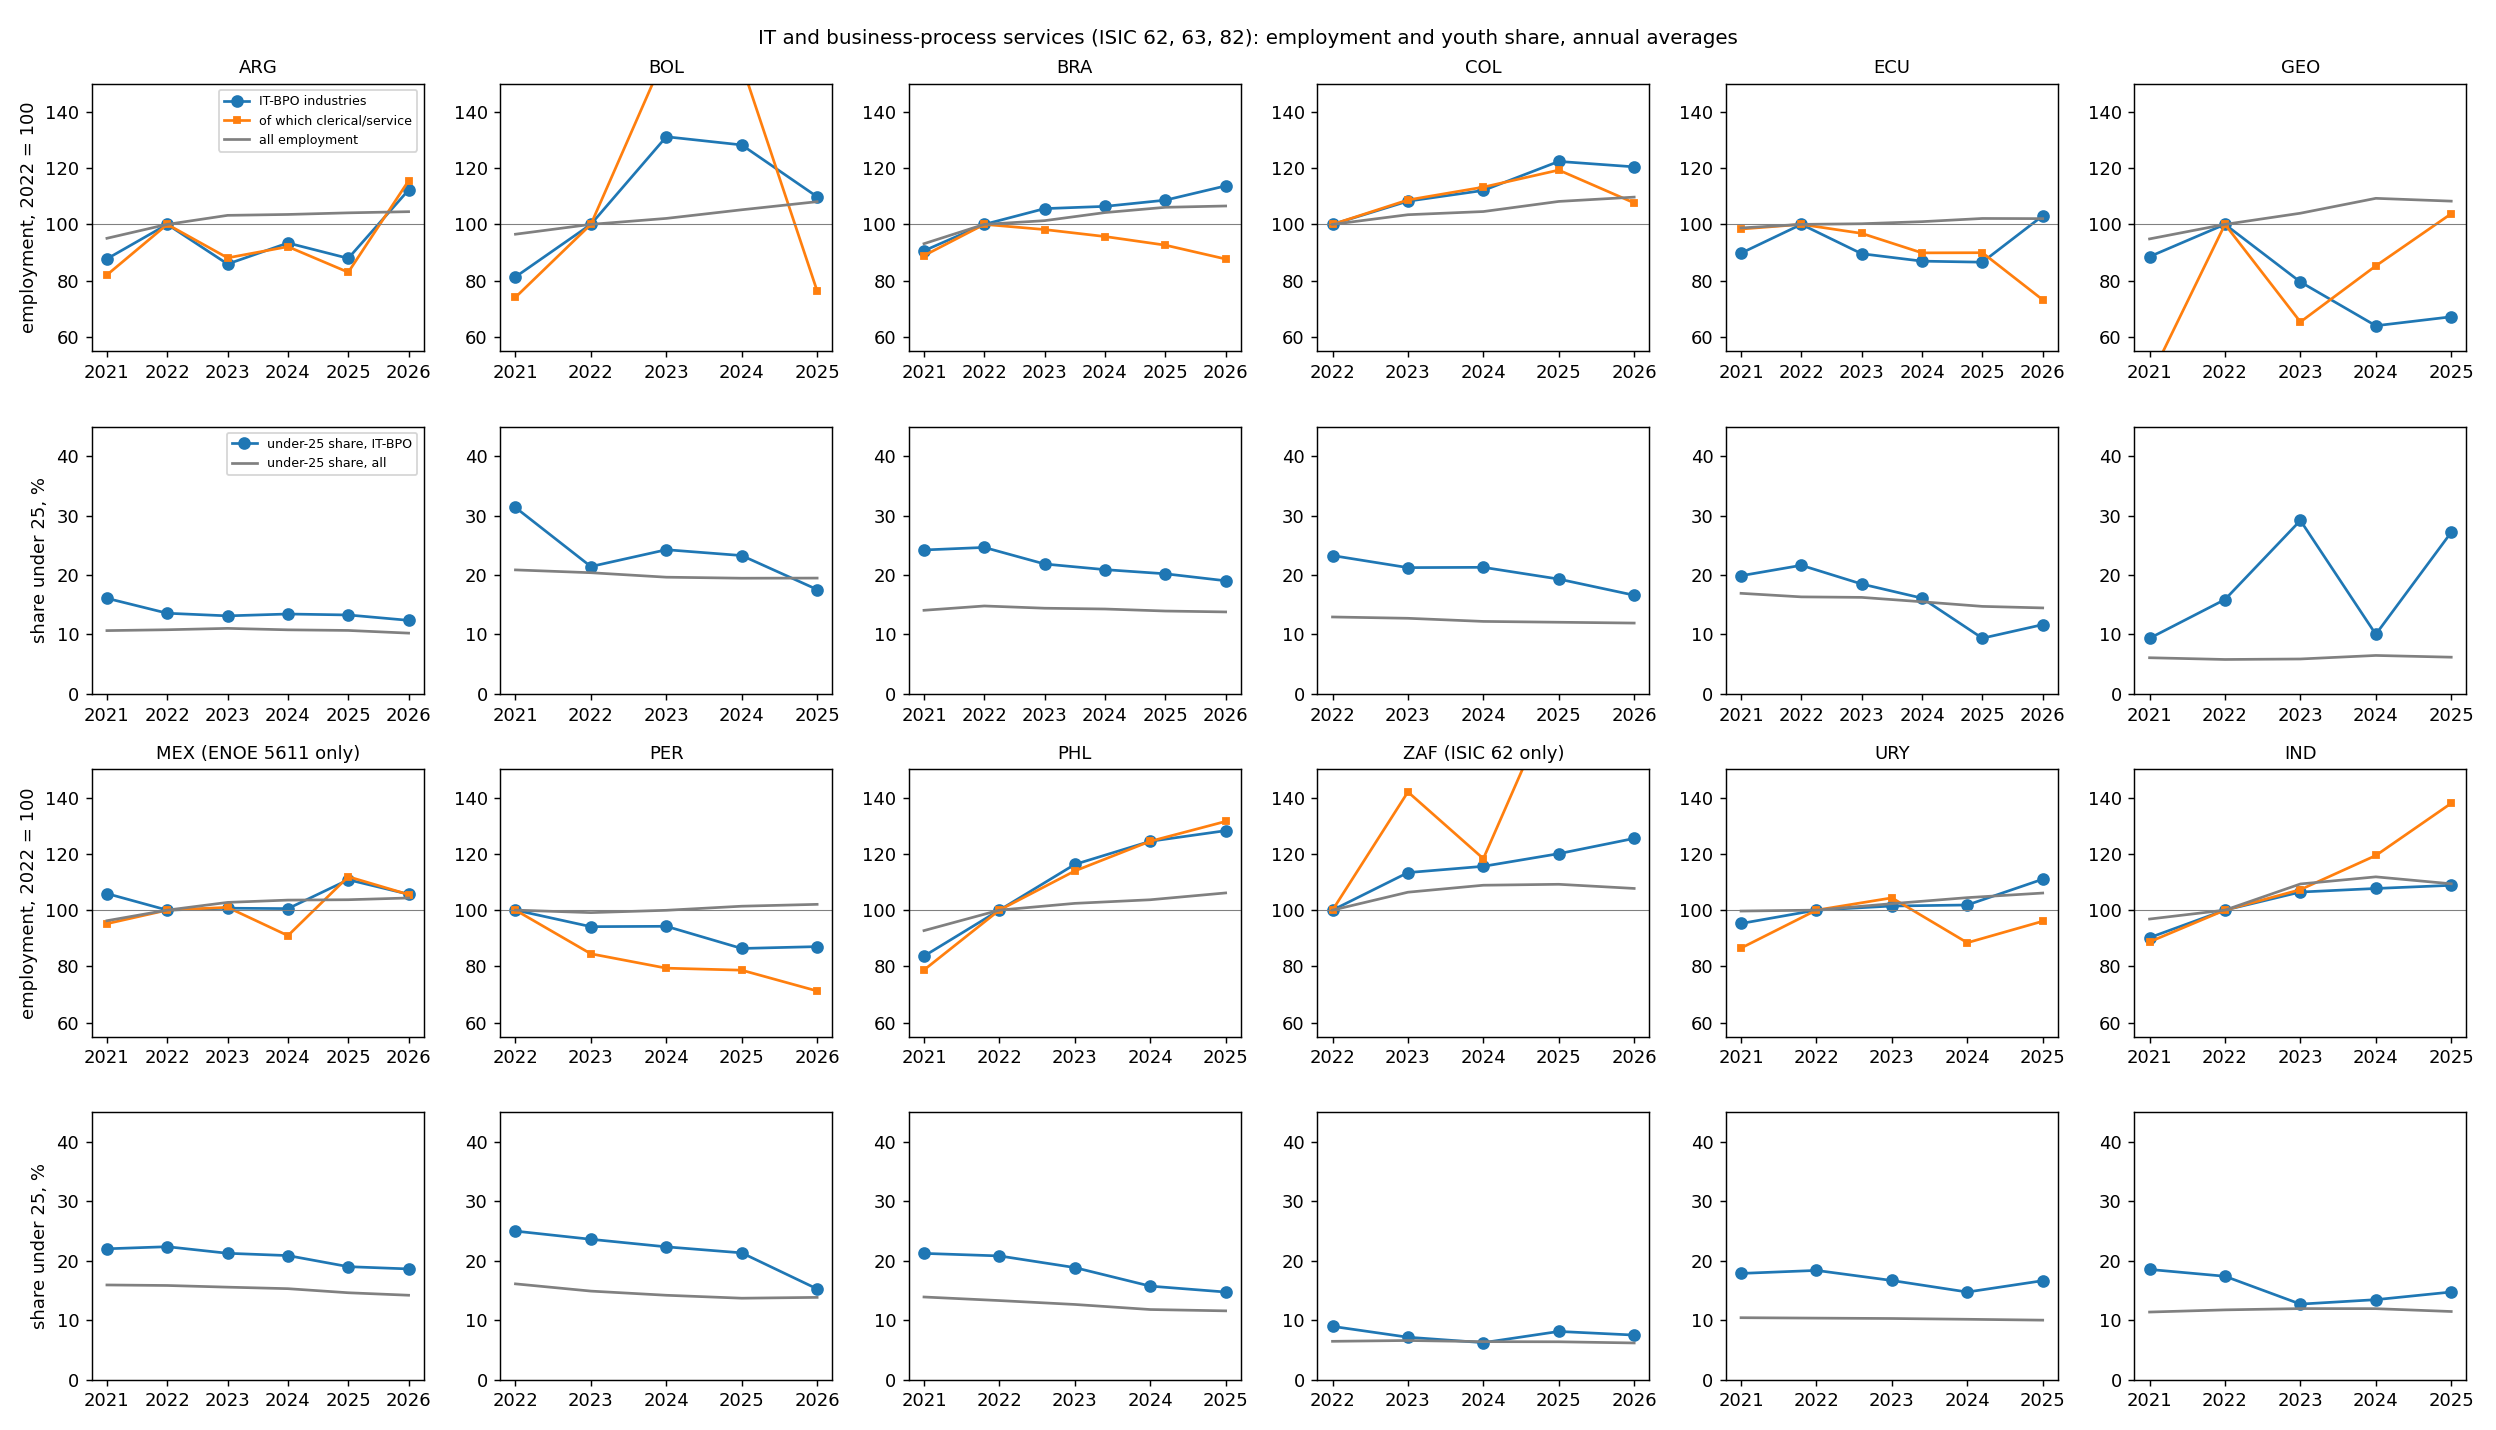
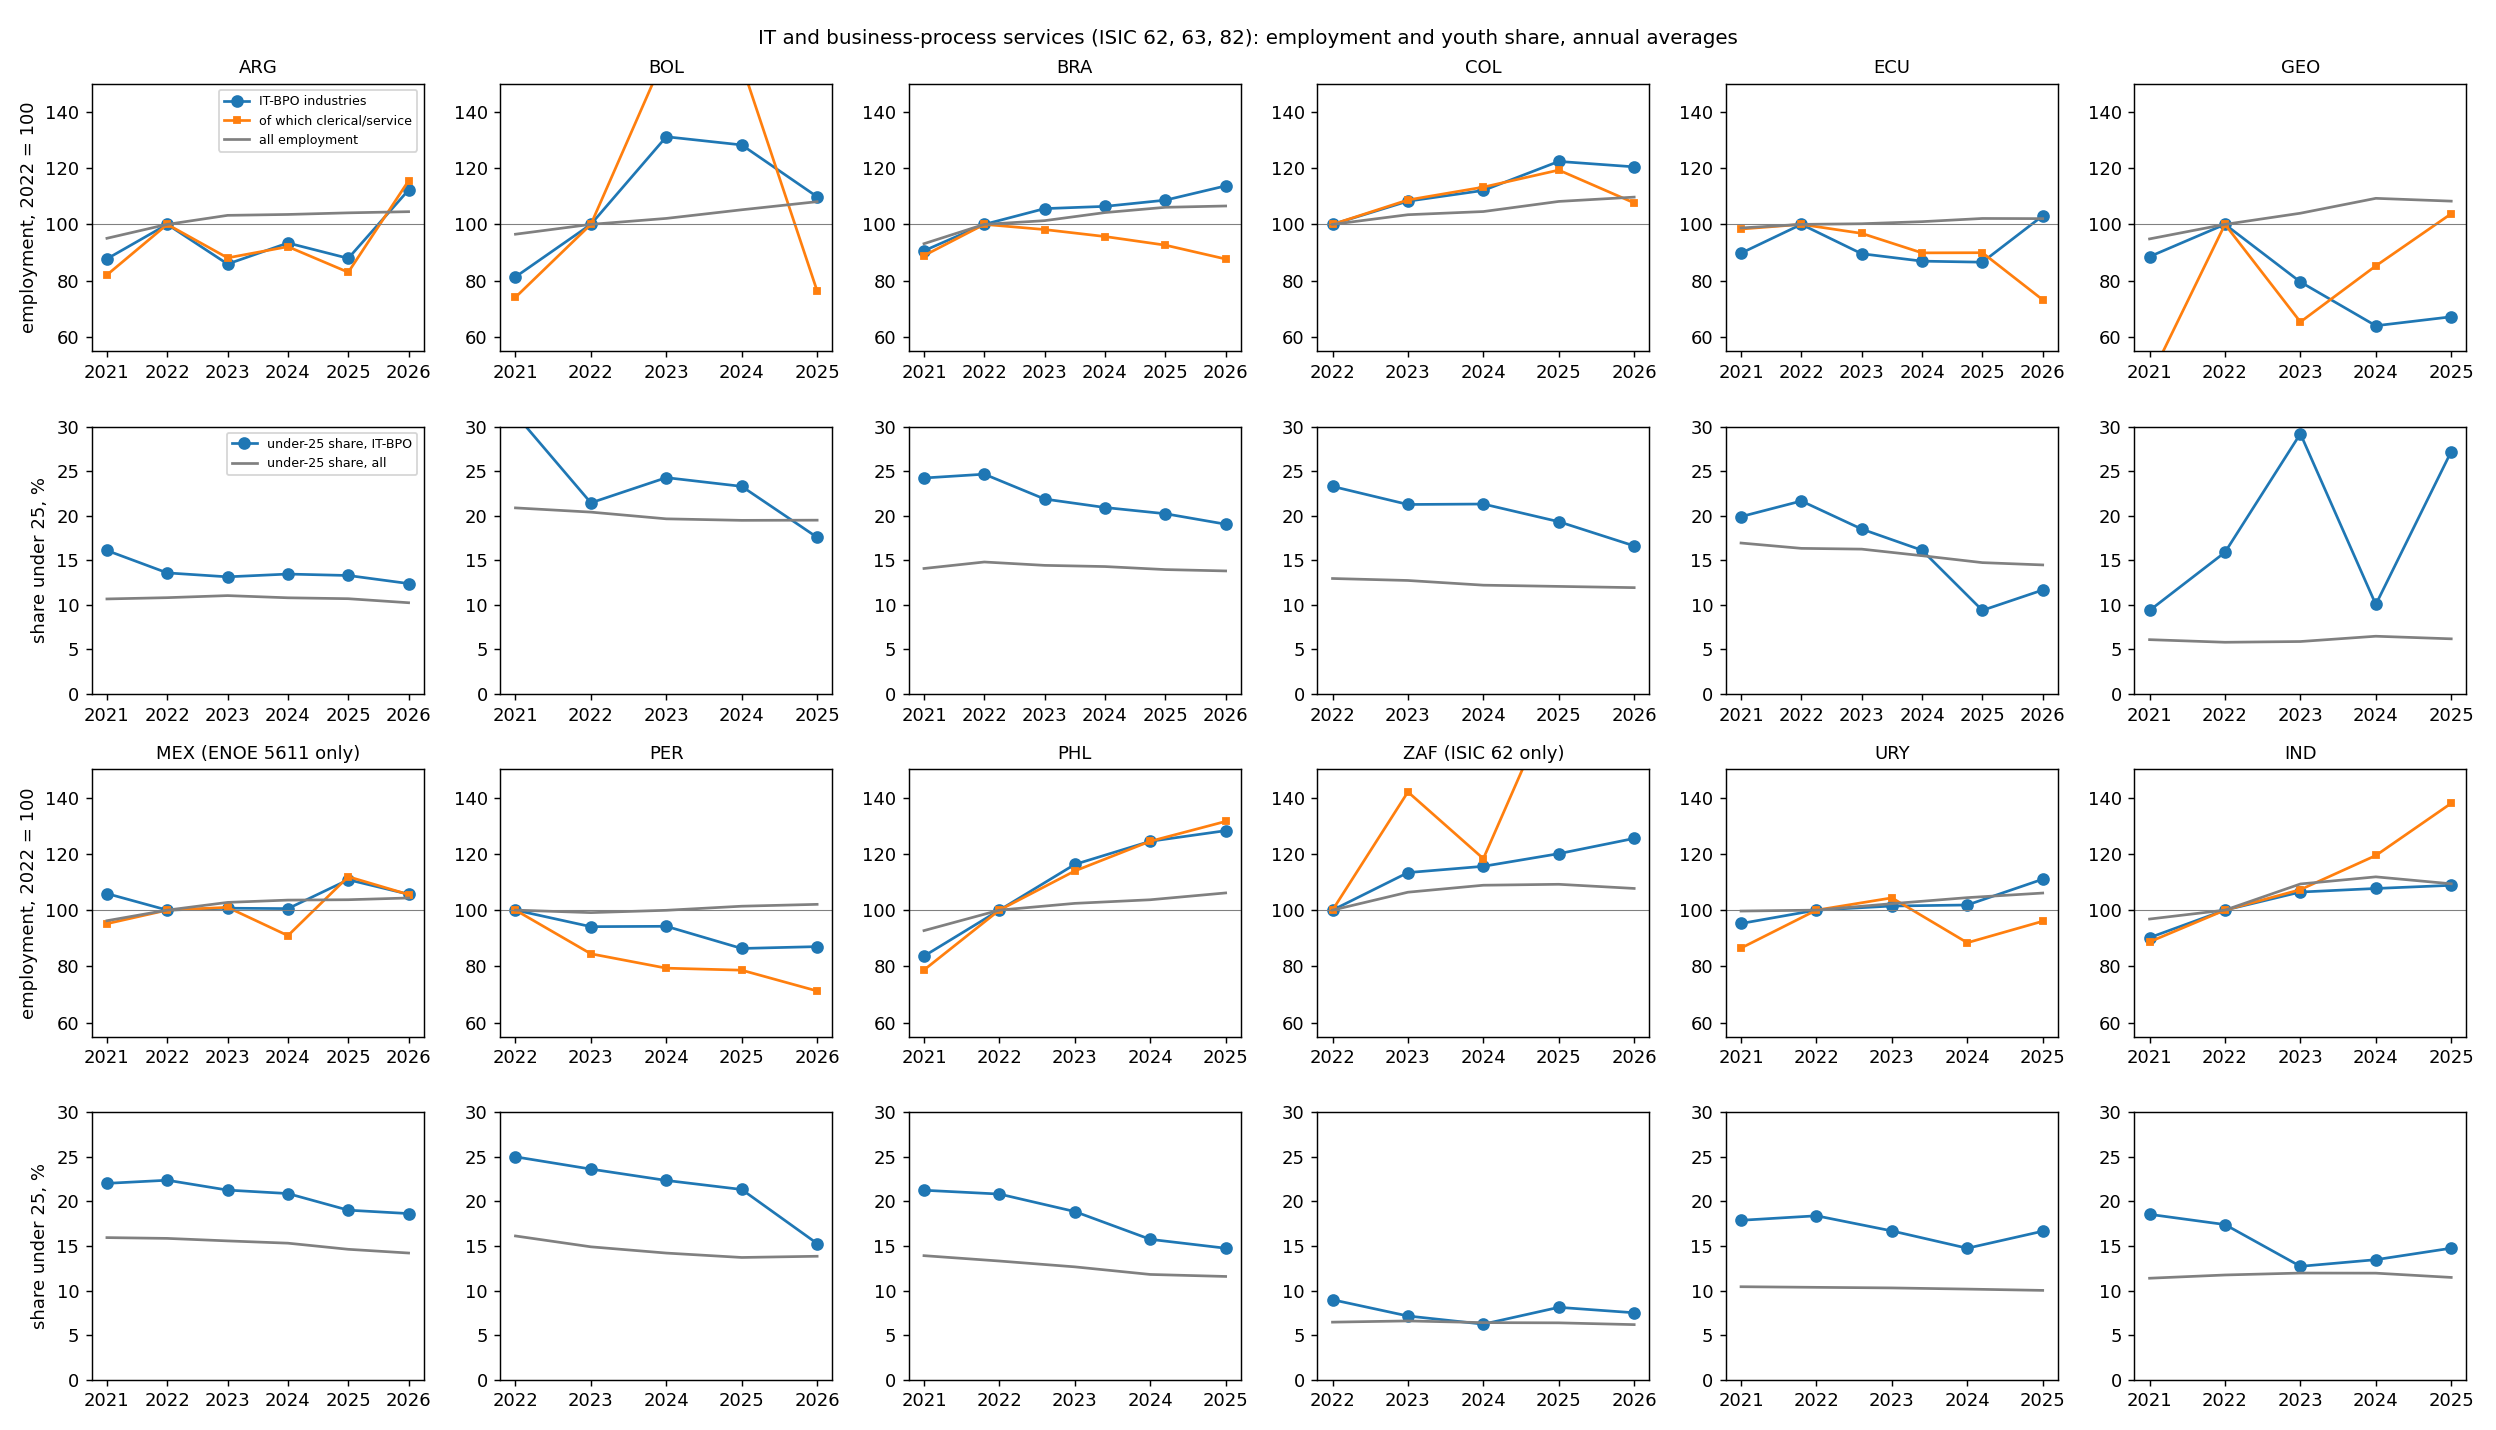
IT-BPO country figures: cap the under-25 share axis at 30 percent

diff --git a/scripts/43_itbpo_sector.py b/scripts/43_itbpo_sector.py
@@ -111,7 +111,7 @@ def plot(t: pd.DataFrame, path, codes=None, ncol: int = 6) -> None:
         ax2 = axes[2 * r + 1][c]
         ax2.plot(s["yr"], s["u25_itbpo"], marker="o", label="under-25 share, IT-BPO")
         ax2.plot(s["yr"], s["u25_all"], color="grey", label="under-25 share, all")
-        ax2.set_ylim(0, 45)
+        ax2.set_ylim(0, 30)
     for r in range(nrow):
         axes[2 * r][0].set_ylabel("employment, 2022 = 100")
         axes[2 * r + 1][0].set_ylabel("share under 25, %")
